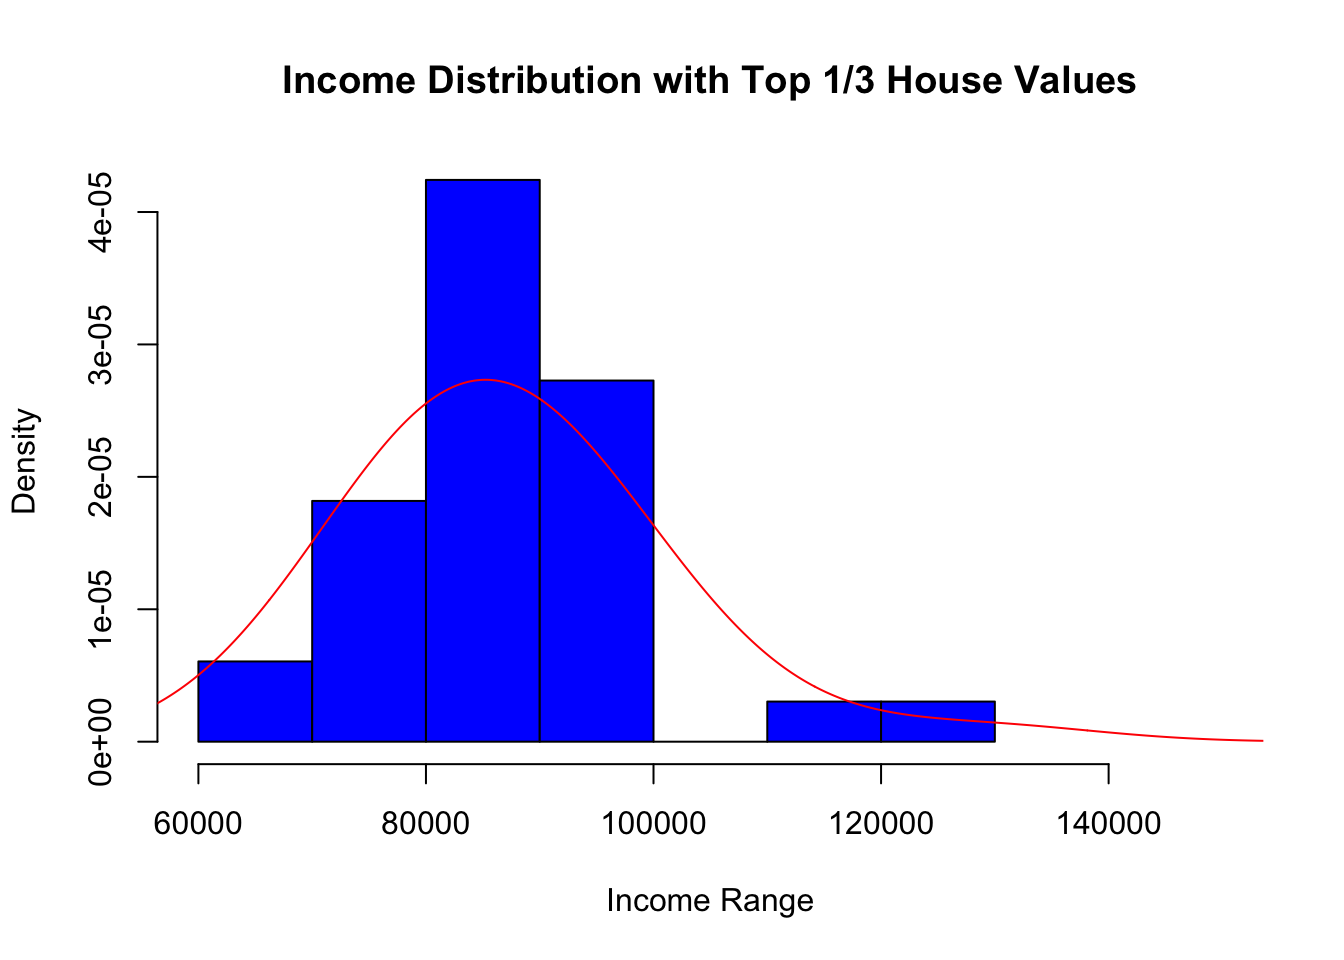
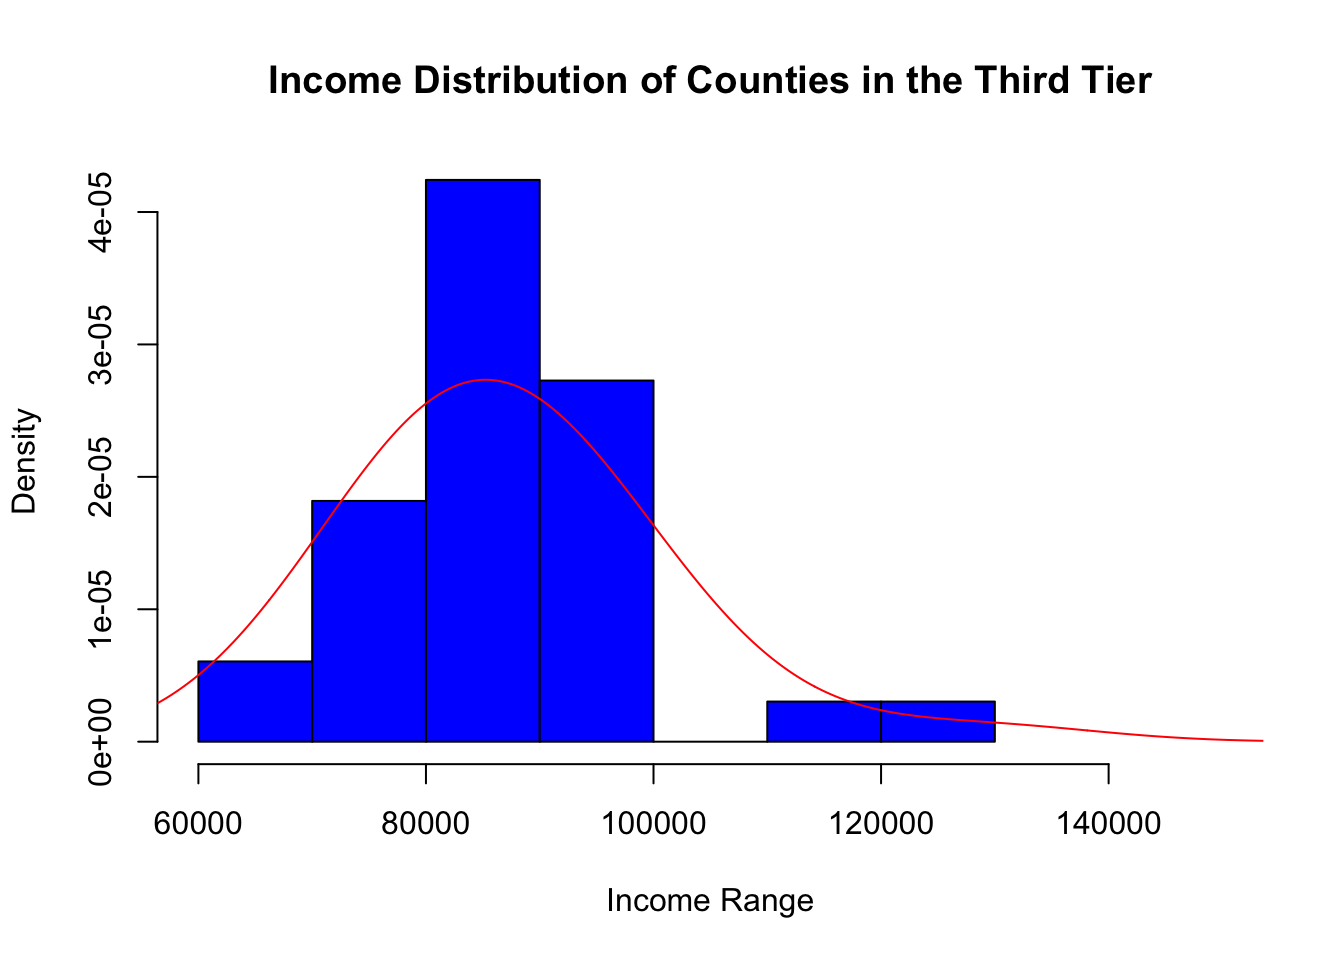
edit.iowa

Changed region(s): [[0.1875, 0.0625, 0.875, 0.0938]]

diff --git a/public/post/2018/12/07/a-quantitative-study-of-the-iowa-population-at-the-county-level/index.html b/public/post/2018/12/07/a-quantitative-study-of-the-iowa-population-at-the-county-level/index.html
@@ -4,8 +4,8 @@
     <meta charset="utf-8">
     <meta name="viewport" content="width=device-width, initial-scale=1">
     
-    <title>A Study Based on Demographics of 99 Iowa Counties - Y.Wu</title>
-    <meta property="og:title" content="A Study Based on Demographics of 99 Iowa Counties - Y.Wu">
+    <title>A Quantitative Study of the Iowa Population at the County Level - Y.Wu</title>
+    <meta property="og:title" content="A Quantitative Study of the Iowa Population at the County Level - Y.Wu">
     
     <meta name="twitter:card" content="summary">
 
@@ -15,12 +15,14 @@
 
     
       
-      <meta property="description" content="In order to accomplish these following tasks:
+      <meta property="description" content="The goal of this study is to look at:
+[&amp;hellip;] In order to accomplish these following tasks:
 [&amp;hellip;] I use the these following packages in R:
-library(dplyr) library(magrittr) library(ggplot2) library(ggpubr) library(psych) library(Hmisc) &amp;hellip;">
-      <meta property="og:description" content="In order to accomplish these following tasks:
+library(dplyr) library(magrittr) library(ggplot2) &amp;hellip;">
+      <meta property="og:description" content="The goal of this study is to look at:
+[&amp;hellip;] In order to accomplish these following tasks:
 [&amp;hellip;] I use the these following packages in R:
-library(dplyr) library(magrittr) library(ggplot2) library(ggpubr) library(psych) library(Hmisc) &amp;hellip;">
+library(dplyr) library(magrittr) library(ggplot2) &amp;hellip;">
       
     
 
@@ -82,7 +84,7 @@ library(dplyr) library(magrittr) library(ggplot2) library(ggpubr) library(psych)
     <article class="main">
       <header class="title">
       
-<h1>A Study Based on Demographics of 99 Iowa Counties</h1>
+<h1>A Quantitative Study of the Iowa Population at the County Level</h1>
 
 <h3>
   2018-12-07</h3>
@@ -97,8 +99,35 @@ library(dplyr) library(magrittr) library(ggplot2) library(ggpubr) library(psych)
 <img src="https://upload.wikimedia.org/wikipedia/commons/f/fc/Blank_Iowa_county_map_with_county_names.svg" />
 
 </div>
-<div id="load-packages" class="section level2">
-<h2>Load Packages</h2>
+<div id="introduction" class="section level1">
+<h1>Introduction</h1>
+<div id="goals" class="section level3">
+<h3>Goals</h3>
+<p>The goal of this study is to look at:</p>
+<ul>
+<li>What is the relationships between the population and other variables, such as education attainment, poverty, the mean of income, and the median house value.</li>
+<li>Visually display the distribution of median house values across the state, and three frequency distributions based on the population of a county. All counties are evenly divided into three tiers:
+<ul>
+<li>Tier 1: population size from 3,000 to 11,000 (33 counties)</li>
+<li>Tier 2: population size form 11,000 to 20,000 (33 counties)</li>
+<li>Tier 3: population size form 20,000 to 48,200 (33 counties)</li>
+</ul></li>
+<li>Correlations between:
+<ul>
+<li>Number of bechelor received and number of poverty.</li>
+<li>Median house value and the mean of income.</li>
+<li>Number of employed and the mean of income.</li>
+<li>Number of employed and the number under poverty.</li>
+</ul></li>
+<li>T test.<br />
+### Data All data sets are collected through the U.S. Census at <a href="https://www.census.gov/" class="uri">https://www.census.gov/</a>.</li>
+</ul>
+</div>
+</div>
+<div id="methods" class="section level1">
+<h1>Methods</h1>
+<div id="load-packages" class="section level3">
+<h3>load Packages</h3>
 <p>In order to accomplish these following tasks:</p>
 <ul>
 <li>Data manipulation</li>
@@ -166,20 +195,21 @@ library(devtools)</code></pre>
 ##  Max.   :129274   Max.   :354927</code></pre>
 <div id="histograms-and-density-distributions" class="section level3">
 <h3>Histograms and Density Distributions</h3>
-<pre class="r"><code>x &lt;- my_data$mean.income
-hist(x,main = &quot;Distribution of Mean of Income&quot;, xlab = &quot;Income Range&quot;, 
-     col = &quot;blue&quot;, border =&quot;black&quot;, prob = T )
-lines(density(x, adjust = 2), col = &quot;red&quot;)</code></pre>
-<p><img src="/post/Iowa_files/figure-html/unnamed-chunk-5-1.png" width="672" /></p>
 <pre class="r"><code>y &lt;- my_data$median.house
 hist(y,main = &quot;Distribution of Median House Value&quot;, xlab = &quot;Value Range&quot;, 
      xlim = c(0, 220000), col = &quot;blue&quot;, border =&quot;black&quot;, prob=TRUE)
 lines(density(y, adjust = 2), col = &quot;red&quot;)</code></pre>
+<p><img src="/post/Iowa_files/figure-html/unnamed-chunk-5-1.png" width="672" /></p>
+<p>Recall: based on the population size, we devide 99 counties into three tiers of counties. 1. Population between 3,000 and 11,000: 33 counties - pop1 - Tier 1 2. Population between 11,000 and 20,000: 33 counties - pop2 - Tier 2 3. Population between 20,000 and 482,000: 33 counties - pop3 - Tier 3</p>
+<pre class="r"><code>x &lt;- my_data$mean.income
+hist(x,main = &quot;Distribution of Mean of Income&quot;, xlab = &quot;Income Range&quot;, 
+     col = &quot;blue&quot;, border =&quot;black&quot;, prob = T )
+lines(density(x, adjust = 2), col = &quot;red&quot;)</code></pre>
 <p><img src="/post/Iowa_files/figure-html/unnamed-chunk-6-1.png" width="672" /></p>
-<p>Based on the population size, I devide 99 counties into three tiers of counties. 1. Population between 3600 and 11000: 33 counties -pop1 2. Population between 11000 and 20000: 33 counties - pop2 3. Population between 20000 and 482000: 33 counties - pop3</p>
+<p>Based on the population size, I devide 99 counties into three tiers of counties. 1. Population between 3600 and 11000: 33 counties - pop1 - Tier 1 2. Population between 11000 and 20000: 33 counties - pop2 - Tier 2 3. Population between 20000 and 482000: 33 counties - pop3 - Tier 3</p>
 <pre class="r"><code>pop1 &lt;- filter(my_data, by.pop == 1)
 y1 &lt;- pop1$mean.income
-hist(y1,main = &quot;Income Distribution of Lower 1/3 Populated Counties&quot;, xlab = &quot;Income Range&quot;,
+hist(y1,main = &quot;Income Distribution of Counties in the First Tier&quot;, xlab = &quot;Income Range&quot;,
      xlim = c(60000, 150000), col = &quot;blue&quot;, border =&quot;black&quot;, prob=TRUE)
 lines(density(y1, adjust = 2), col = &quot;red&quot;)</code></pre>
 <p><img src="/post/Iowa_files/figure-html/unnamed-chunk-7-1.png" width="672" /></p>
@@ -202,16 +232,16 @@ lines(density(y1, adjust = 2), col = &quot;red&quot;)</code></pre>
 ## 6         416          1001        74700       65938    20110</code></pre>
 <pre class="r"><code>pop2 &lt;- filter(my_data, by.pop == 2)
 y2 &lt;- pop2$mean.income
-hist(y2,main = &quot;Income Distribution of Middle 1/3 Populated Counties&quot;, xlab = &quot;Income Range&quot;, 
+hist(y2,main = &quot;Income Distribution of Counties in the Second Tier&quot;, xlab = &quot;Income Range&quot;, 
      xlim = c(60000, 150000), col = &quot;blue&quot;, border =&quot;black&quot;, prob=TRUE)
 lines(density(y2, adjust = 2), col = &quot;red&quot;)</code></pre>
 <p><img src="/post/Iowa_files/figure-html/unnamed-chunk-10-1.png" width="672" /></p>
 <pre class="r"><code>pop3 &lt;- filter(my_data, by.pop == 3)
 y3 &lt;- pop3$mean.income
-hist(y3,main = &quot;Income Distribution of Top 1/3 Populated Counties&quot;, xlab = &quot;Income Range&quot;,
+hist(y3,main = &quot;Income Distribution of Counties in the Third Tier&quot;, xlab = &quot;Income Range&quot;,
      xlim = c(60000, 150000), col = &quot;blue&quot;, border =&quot;black&quot;, prob=TRUE)
 lines(density(y3, adjust = 2), col = &quot;red&quot;)</code></pre>
-<p><img src="/post/Iowa_files/figure-html/unnamed-chunk-11-1.png" width="672" /></p>
+<p><img src="/post/Iowa_files/figure-html/unnamed-chunk-11-1.png" width="672" /> ### Conlusion Based on the frequency distribution, as the size of population of a county increaces, the average income tends to increase.</p>
 <div id="correlation-between-number-of-bachelor-over-25-in-age-and-number-under-poverty" class="section level4">
 <h4>Correlation between number of bachelor over 25 in age and number under poverty</h4>
 <p>Normally, we would expact the correlation between number of bechalor degrees obtained and the number of people under poverty. However, the truth can be: the more bechalors a county has, the bigger population it may have. Therefore, it is more likely to have more people under poverty.</p>
@@ -248,6 +278,8 @@ correlation4</code></pre>
 </div>
 <div id="t--test" class="section level2">
 <h2>T- test</h2>
+<p>Null: the means of income are the same.<br />
+Alternative: they are not the same.</p>
 <pre class="r"><code>res &lt;- t.test(my_data$pop.2017, my_data$mean.income, data = my_data, var.equal = TRUE)
 res</code></pre>
 <pre><code>## 
@@ -261,6 +293,8 @@ res</code></pre>
 ## sample estimates:
 ## mean of x mean of y 
 ##  31774.86  81652.77</code></pre>
+<p>The p-value is smaller than 0.05. There is significant evidence to reject the null hypothesis. The means of income are not the same for counties with different population sizes.</p>
+</div>
 </div>
 
 

diff --git a/content/post/Iowa.html b/content/post/Iowa.html
@@ -1,5 +1,5 @@
 ---
-title: "A Study Based on Demographics of 99 Iowa Counties"
+title: "A Quantitative Study of the Iowa Population at the County Level"
 date: "2018-12-07T21:49:57-07:00"
 categories:
   - Products
@@ -14,8 +14,35 @@ tags:
 <img src="https://upload.wikimedia.org/wikipedia/commons/f/fc/Blank_Iowa_county_map_with_county_names.svg" />
 
 </div>
-<div id="load-packages" class="section level2">
-<h2>Load Packages</h2>
+<div id="introduction" class="section level1">
+<h1>Introduction</h1>
+<div id="goals" class="section level3">
+<h3>Goals</h3>
+<p>The goal of this study is to look at:</p>
+<ul>
+<li>What is the relationships between the population and other variables, such as education attainment, poverty, the mean of income, and the median house value.</li>
+<li>Visually display the distribution of median house values across the state, and three frequency distributions based on the population of a county. All counties are evenly divided into three tiers:
+<ul>
+<li>Tier 1: population size from 3,000 to 11,000 (33 counties)</li>
+<li>Tier 2: population size form 11,000 to 20,000 (33 counties)</li>
+<li>Tier 3: population size form 20,000 to 48,200 (33 counties)</li>
+</ul></li>
+<li>Correlations between:
+<ul>
+<li>Number of bechelor received and number of poverty.</li>
+<li>Median house value and the mean of income.</li>
+<li>Number of employed and the mean of income.</li>
+<li>Number of employed and the number under poverty.</li>
+</ul></li>
+<li>T test.<br />
+### Data All data sets are collected through the U.S. Census at <a href="https://www.census.gov/" class="uri">https://www.census.gov/</a>.</li>
+</ul>
+</div>
+</div>
+<div id="methods" class="section level1">
+<h1>Methods</h1>
+<div id="load-packages" class="section level3">
+<h3>load Packages</h3>
 <p>In order to accomplish these following tasks:</p>
 <ul>
 <li>Data manipulation</li>
@@ -83,20 +110,21 @@ library(devtools)</code></pre>
 ##  Max.   :129274   Max.   :354927</code></pre>
 <div id="histograms-and-density-distributions" class="section level3">
 <h3>Histograms and Density Distributions</h3>
-<pre class="r"><code>x &lt;- my_data$mean.income
-hist(x,main = &quot;Distribution of Mean of Income&quot;, xlab = &quot;Income Range&quot;, 
-     col = &quot;blue&quot;, border =&quot;black&quot;, prob = T )
-lines(density(x, adjust = 2), col = &quot;red&quot;)</code></pre>
-<p><img src="/post/Iowa_files/figure-html/unnamed-chunk-5-1.png" width="672" /></p>
 <pre class="r"><code>y &lt;- my_data$median.house
 hist(y,main = &quot;Distribution of Median House Value&quot;, xlab = &quot;Value Range&quot;, 
      xlim = c(0, 220000), col = &quot;blue&quot;, border =&quot;black&quot;, prob=TRUE)
 lines(density(y, adjust = 2), col = &quot;red&quot;)</code></pre>
+<p><img src="/post/Iowa_files/figure-html/unnamed-chunk-5-1.png" width="672" /></p>
+<p>Recall: based on the population size, we devide 99 counties into three tiers of counties. 1. Population between 3,000 and 11,000: 33 counties - pop1 - Tier 1 2. Population between 11,000 and 20,000: 33 counties - pop2 - Tier 2 3. Population between 20,000 and 482,000: 33 counties - pop3 - Tier 3</p>
+<pre class="r"><code>x &lt;- my_data$mean.income
+hist(x,main = &quot;Distribution of Mean of Income&quot;, xlab = &quot;Income Range&quot;, 
+     col = &quot;blue&quot;, border =&quot;black&quot;, prob = T )
+lines(density(x, adjust = 2), col = &quot;red&quot;)</code></pre>
 <p><img src="/post/Iowa_files/figure-html/unnamed-chunk-6-1.png" width="672" /></p>
-<p>Based on the population size, I devide 99 counties into three tiers of counties. 1. Population between 3600 and 11000: 33 counties -pop1 2. Population between 11000 and 20000: 33 counties - pop2 3. Population between 20000 and 482000: 33 counties - pop3</p>
+<p>Based on the population size, I devide 99 counties into three tiers of counties. 1. Population between 3600 and 11000: 33 counties - pop1 - Tier 1 2. Population between 11000 and 20000: 33 counties - pop2 - Tier 2 3. Population between 20000 and 482000: 33 counties - pop3 - Tier 3</p>
 <pre class="r"><code>pop1 &lt;- filter(my_data, by.pop == 1)
 y1 &lt;- pop1$mean.income
-hist(y1,main = &quot;Income Distribution with Lower 1/3 House Values&quot;, xlab = &quot;Income Range&quot;, 
+hist(y1,main = &quot;Income Distribution of Counties in the First Tier&quot;, xlab = &quot;Income Range&quot;,
      xlim = c(60000, 150000), col = &quot;blue&quot;, border =&quot;black&quot;, prob=TRUE)
 lines(density(y1, adjust = 2), col = &quot;red&quot;)</code></pre>
 <p><img src="/post/Iowa_files/figure-html/unnamed-chunk-7-1.png" width="672" /></p>
@@ -119,16 +147,16 @@ lines(density(y1, adjust = 2), col = &quot;red&quot;)</code></pre>
 ## 6         416          1001        74700       65938    20110</code></pre>
 <pre class="r"><code>pop2 &lt;- filter(my_data, by.pop == 2)
 y2 &lt;- pop2$mean.income
-hist(y2,main = &quot;Income Distribution with Middle 1/3 House Values&quot;, xlab = &quot;Income Range&quot;, 
+hist(y2,main = &quot;Income Distribution of Counties in the Second Tier&quot;, xlab = &quot;Income Range&quot;, 
      xlim = c(60000, 150000), col = &quot;blue&quot;, border =&quot;black&quot;, prob=TRUE)
 lines(density(y2, adjust = 2), col = &quot;red&quot;)</code></pre>
 <p><img src="/post/Iowa_files/figure-html/unnamed-chunk-10-1.png" width="672" /></p>
 <pre class="r"><code>pop3 &lt;- filter(my_data, by.pop == 3)
 y3 &lt;- pop3$mean.income
-hist(y3,main = &quot;Income Distribution with Top 1/3 House Values&quot;, xlab = &quot;Income Range&quot;, 
+hist(y3,main = &quot;Income Distribution of Counties in the Third Tier&quot;, xlab = &quot;Income Range&quot;,
      xlim = c(60000, 150000), col = &quot;blue&quot;, border =&quot;black&quot;, prob=TRUE)
 lines(density(y3, adjust = 2), col = &quot;red&quot;)</code></pre>
-<p><img src="/post/Iowa_files/figure-html/unnamed-chunk-11-1.png" width="672" /></p>
+<p><img src="/post/Iowa_files/figure-html/unnamed-chunk-11-1.png" width="672" /> ### Conlusion Based on the frequency distribution, as the size of population of a county increaces, the average income tends to increase.</p>
 <div id="correlation-between-number-of-bachelor-over-25-in-age-and-number-under-poverty" class="section level4">
 <h4>Correlation between number of bachelor over 25 in age and number under poverty</h4>
 <p>Normally, we would expact the correlation between number of bechalor degrees obtained and the number of people under poverty. However, the truth can be: the more bechalors a county has, the bigger population it may have. Therefore, it is more likely to have more people under poverty.</p>
@@ -165,6 +193,8 @@ correlation4</code></pre>
 </div>
 <div id="t--test" class="section level2">
 <h2>T- test</h2>
+<p>Null: the means of income are the same.<br />
+Alternative: they are not the same.</p>
 <pre class="r"><code>res &lt;- t.test(my_data$pop.2017, my_data$mean.income, data = my_data, var.equal = TRUE)
 res</code></pre>
 <pre><code>## 
@@ -178,4 +208,6 @@ res</code></pre>
 ## sample estimates:
 ## mean of x mean of y 
 ##  31774.86  81652.77</code></pre>
+<p>The p-value is smaller than 0.05. There is significant evidence to reject the null hypothesis. The means of income are not the same for counties with different population sizes.</p>
+</div>
 </div>

diff --git a/public/post/2018/12/07/a--iowa-counties/index.html b/public/post/2018/12/07/a--iowa-counties/index.html
@@ -4,8 +4,8 @@
     <meta charset="utf-8">
     <meta name="viewport" content="width=device-width, initial-scale=1">
     
-    <title>A Study Based on Demographics of 99 Iowa Counties - Y.Wu</title>
-    <meta property="og:title" content="A Study Based on Demographics of 99 Iowa Counties - Y.Wu">
+    <title>A  Iowa Counties - Y.Wu</title>
+    <meta property="og:title" content="A  Iowa Counties - Y.Wu">
     
     <meta name="twitter:card" content="summary">
 
@@ -82,7 +82,7 @@ library(dplyr) library(magrittr) library(ggplot2) library(ggpubr) library(psych)
     <article class="main">
       <header class="title">
       
-<h1>A Study Based on Demographics of 99 Iowa Counties</h1>
+<h1>A  Iowa Counties</h1>
 
 <h3>
   2018-12-07</h3>
@@ -99,6 +99,8 @@ library(dplyr) library(magrittr) library(ggplot2) library(ggpubr) library(psych)
 </div>
 <div id="load-packages" class="section level2">
 <h2>Load Packages</h2>
+<div id="load-what" class="section level3">
+<h3>load what</h3>
 <p>In order to accomplish these following tasks:</p>
 <ul>
 <li>Data manipulation</li>
@@ -114,6 +116,7 @@ library(ggpubr)
 library(psych)
 library(Hmisc)
 library(devtools)</code></pre>
+</div>
 </div>
 <div id="import-data" class="section level2">
 <h2>Import Data</h2>

diff --git a/public/post/2018/09/23/quantitative-terminologies/index.html b/public/post/2018/09/23/quantitative-terminologies/index.html
@@ -144,7 +144,7 @@
   
 <nav class="post-nav">
   <span class="nav-prev">&larr; <a href="/post/2018/08/18/life-circle/">Life Circle</a></span>
-  <span class="nav-next"><a href="/post/2018/12/07/a-study-based-on-demographics-of-99-iowa-counties/">A Study Based on Demographics of 99 Iowa Counties</a> &rarr;</span>
+  <span class="nav-next"><a href="/post/2018/12/07/a-quantitative-study-of-the-iowa-population-at-the-county-level/">A Quantitative Study of the Iowa Population at the County Level</a> &rarr;</span>
 </nav>
 
 

diff --git a/public/categories/products/index.html b/public/categories/products/index.html
@@ -85,7 +85,7 @@
   
   <li>
     <span class="date">2018/12/07</span>
-    <a href="/post/2018/12/07/a-study-based-on-demographics-of-99-iowa-counties/">A Study Based on Demographics of 99 Iowa Counties</a>
+    <a href="/post/2018/12/07/a-quantitative-study-of-the-iowa-population-at-the-county-level/">A Quantitative Study of the Iowa Population at the County Level</a>
   </li>
   
   <li>

diff --git a/public/index.html b/public/index.html
@@ -84,7 +84,7 @@
   
   <li>
     <span class="date">2018/12/07</span>
-    <a href="/post/2018/12/07/a-study-based-on-demographics-of-99-iowa-counties/">A Study Based on Demographics of 99 Iowa Counties</a>
+    <a href="/post/2018/12/07/a-quantitative-study-of-the-iowa-population-at-the-county-level/">A Quantitative Study of the Iowa Population at the County Level</a>
   </li>
   
   <li>

diff --git a/public/post/index.html b/public/post/index.html
@@ -85,7 +85,7 @@
   
   <li>
     <span class="date">2018/12/07</span>
-    <a href="/post/2018/12/07/a-study-based-on-demographics-of-99-iowa-counties/">A Study Based on Demographics of 99 Iowa Counties</a>
+    <a href="/post/2018/12/07/a-quantitative-study-of-the-iowa-population-at-the-county-level/">A Quantitative Study of the Iowa Population at the County Level</a>
   </li>
   
   <li>

diff --git a/public/tags/data/index.html b/public/tags/data/index.html
@@ -85,7 +85,7 @@
   
   <li>
     <span class="date">2018/12/07</span>
-    <a href="/post/2018/12/07/a-study-based-on-demographics-of-99-iowa-counties/">A Study Based on Demographics of 99 Iowa Counties</a>
+    <a href="/post/2018/12/07/a-quantitative-study-of-the-iowa-population-at-the-county-level/">A Quantitative Study of the Iowa Population at the County Level</a>
   </li>
   
   <li>

diff --git a/public/tags/statistics/index.html b/public/tags/statistics/index.html
@@ -85,7 +85,7 @@
   
   <li>
     <span class="date">2018/12/07</span>
-    <a href="/post/2018/12/07/a-study-based-on-demographics-of-99-iowa-counties/">A Study Based on Demographics of 99 Iowa Counties</a>
+    <a href="/post/2018/12/07/a-quantitative-study-of-the-iowa-population-at-the-county-level/">A Quantitative Study of the Iowa Population at the County Level</a>
   </li>
   
   <li>
